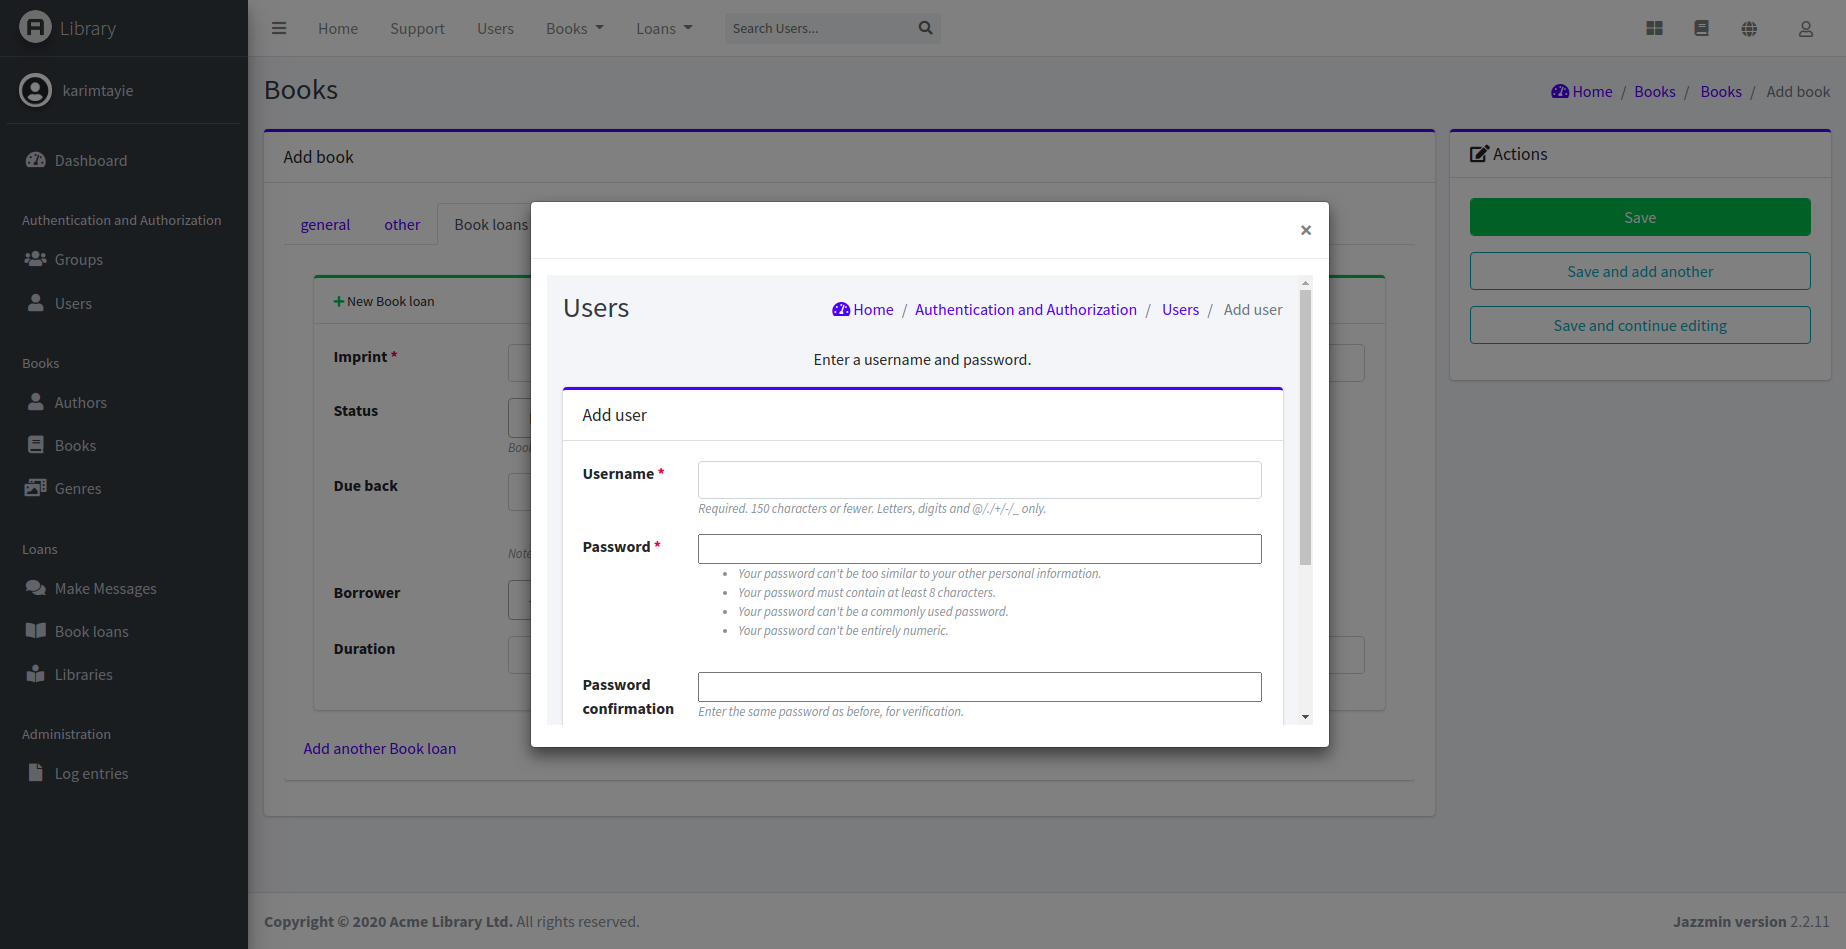
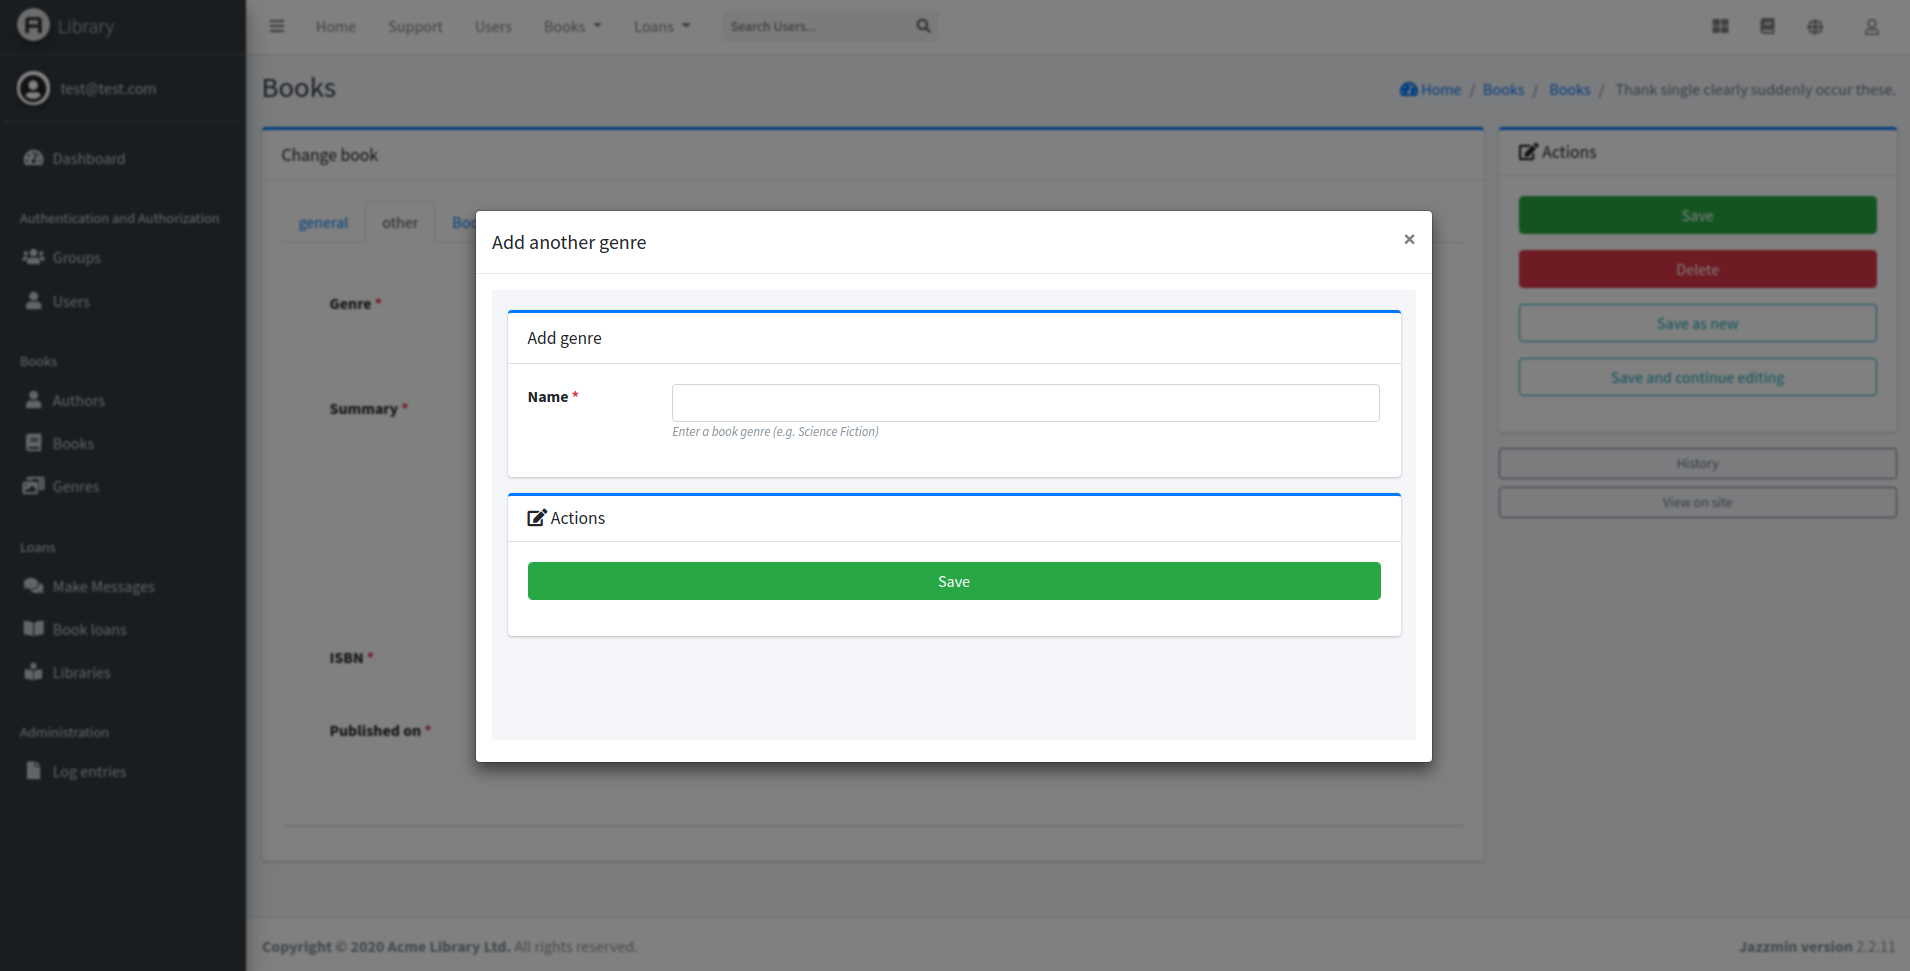
Update docs

diff --git a/docs/index.md b/docs/index.md
@@ -9,6 +9,7 @@ customise, including a built-in UI customizer
 - Select2 drop-downs
 - Bootstrap 4 & AdminLTE UI components
 - Search bar for any given model admin
+- Modal windows instead of popups
 - Customisable side menu
 - Customisable top menu
 - Customisable user menu
@@ -28,31 +29,34 @@ Live demo https://django-jazzmin.herokuapp.com/admin
 ## Screenshots
 
 ### Dashboard
-![dashboard](./img/dashboard.png)
+[![dashboard](./img/dashboard.png)](./img/dashboard.png)
 
 ### List view
-![table list](./img/list_view.png)
+[![table list](./img/list_view.png)](./img/list_view.png)
 
 ### Detail view
-![form page](./img/detail_view.png)
+[![form page](./img/detail_view.png)](./img/detail_view.png)
 
 ### History page
-![form page](./img/history_page.png)
+[![history page](./img/history_page.png)](./img/history_page.png)
+
+### Modal windows
+[![Modal windows](./img/related_modal_bootstrap.png)](./img/related_modal_bootstrap.png)
 
 ### Login view
-![login](./img/login.png)
+[![login](./img/login.png)](./img/login.png)
 
 ### UI Customiser
-![UI Customiser](./img/ui_customiser.png)
+[![UI Customiser](./img/ui_customiser.png)](./img/ui_customiser.png)
 
 ### Mobile layout
-![Admin docs](./img/dashboard_mobile.png)
+[![Mobile layout](./img/dashboard_mobile.png)](./img/dashboard_mobile.png)
 
 ### Tablet layout
-![Admin docs](./img/dashboard_tablet.png)
+[![Table Layout](./img/dashboard_tablet.png)](./img/dashboard_tablet.png)
 
 ### Admin docs (if installed)
-![Admin docs](./img/admin_docs.png)
+[![Admin docs](./img/admin_docs.png)](./img/admin_docs.png)
 
 ## Thanks
 This was initially a Fork of https://github.com/wuyue92tree/django-adminlte-ui that we refactored so much we thought it

diff --git a/docs/configuration.md b/docs/configuration.md
@@ -100,7 +100,7 @@ JAZZMIN_SETTINGS = {
     #################
     # Related Modal #
     #################
-    # Activate Bootstrap modal
+    # Use modals instead of popups
     "related_modal_active": True,
 
     #############
@@ -278,7 +278,8 @@ for a practical example.
 ![Language chooser](./img/language_chooser.png)
 
 ## Related Modal
-Render django related popups inside an iframe within bootstrap 4 modal (instead of the old popup window, optional)
+Render django related popups inside a modal using `"related_modal_active": True` instead of the old popup window, 
+defaults to `True`
 
 ![Related Modal](./img/related_modal_bootstrap.png)
 
